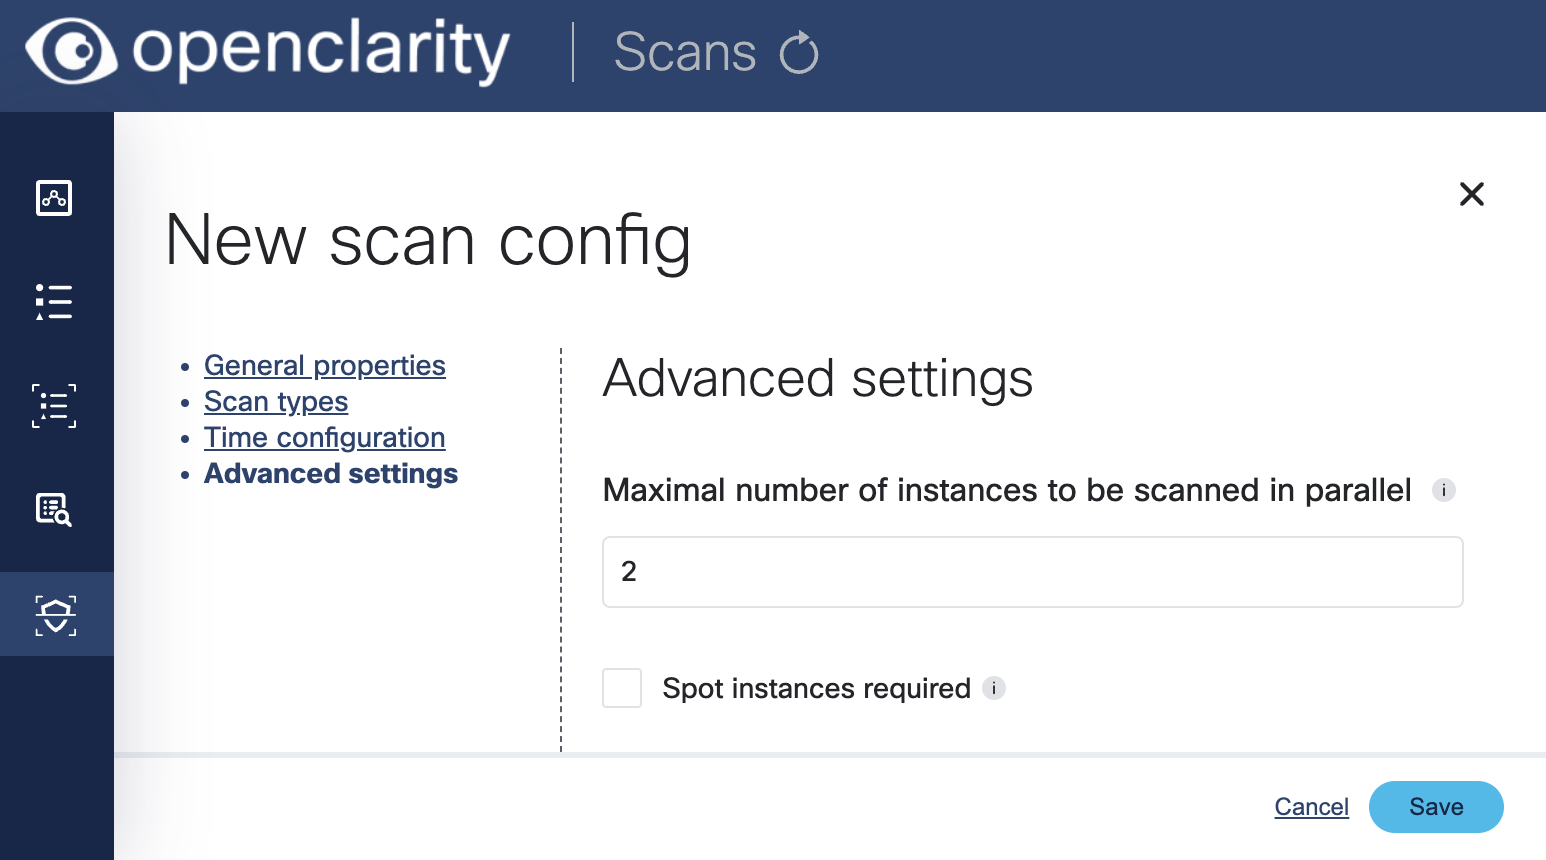
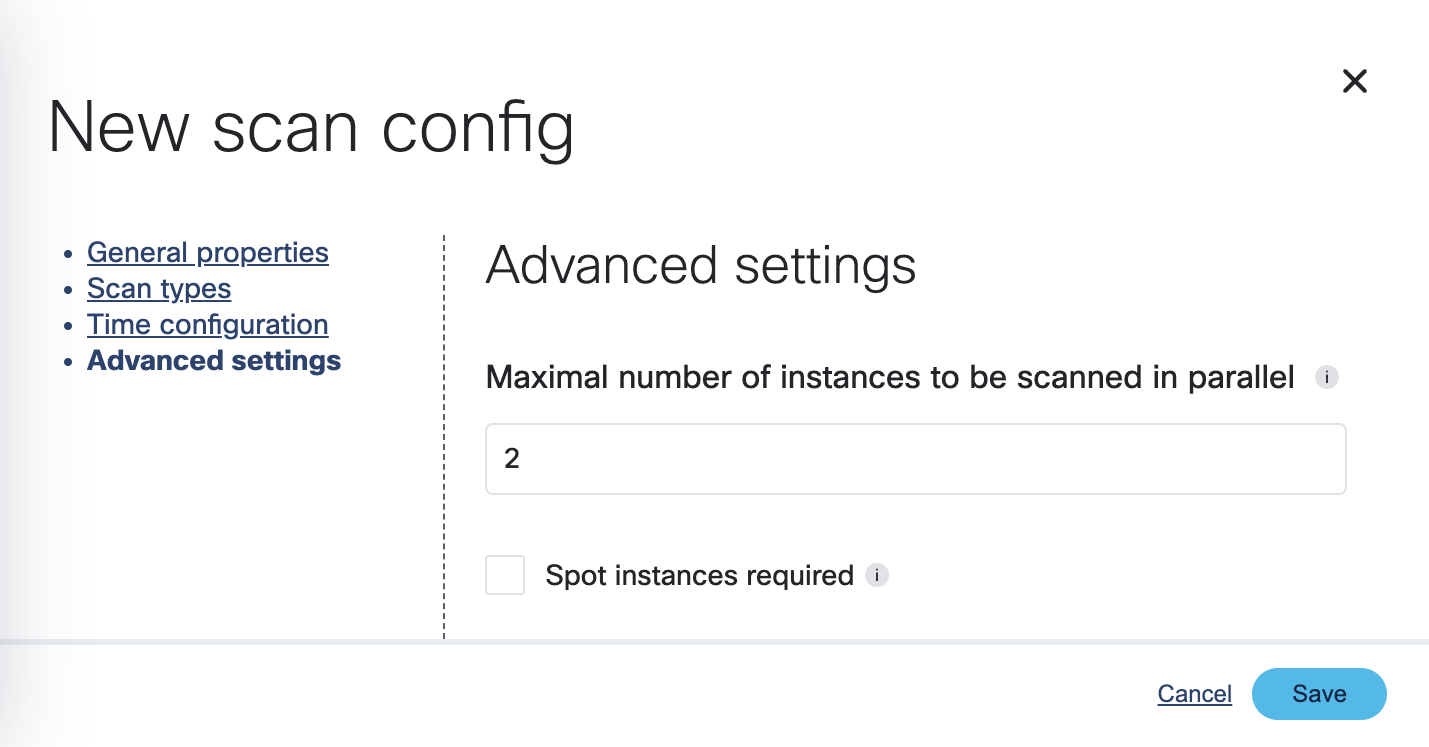
docs: improve images of First tasks guide

diff --git a/content/docs/getting-started/first-tasks/_index.md b/content/docs/getting-started/first-tasks/_index.md
@@ -11,34 +11,34 @@ weight: 200
 
 2. Click on the **Scans** icon. In the Scans window, you can create a new scan configuration.
 
-    <img src="/img/openclarity-ui-2.png" alt="OpenClarity UI Scan" title="OpenClarity UI Scan" />
+    <img src="/img/openclarity-ui-2.png" alt="OpenClarity UI Scan" title="OpenClarity UI Scan" width="500px" />
 
 3. Click **New scan configuration**.
 
-    <img src="/img/openclarity-scan-setup-1.png" alt="OpenClarity Scan Setup - Step 1" title="OpenClarity Scan Setup Step 1" />
+    <img src="/img/openclarity-scan-setup-1.png" alt="OpenClarity Scan Setup - Step 1" title="OpenClarity Scan Setup Step 1" width="500px" />
 
 4. Follow the steps of the **New scan config** wizard to name the scan, and optionally narrow the scope down with an
    OData query.
 
-    <img src="/img/openclarity-scan-setup-2.png" alt="OpenClarity Scan Setup - Step 2" title="OpenClarity Scan Setup Step 2" />
+    <img src="/img/openclarity-scan-setup-2.png" alt="OpenClarity Scan Setup - Step 2" title="OpenClarity Scan Setup Step 2" width="500px" />
 
 5. Enable the scan types you want to perform.
 
-    <img src="/img/openclarity-scan-setup-3.png" alt="OpenClarity Scan Setup - Step 3" title="OpenClarity Scan Setup Step 3" />
+    <img src="/img/openclarity-scan-setup-3.png" alt="OpenClarity Scan Setup - Step 3" title="OpenClarity Scan Setup Step 3" width="500px" />
 
 6. Select the time and/or frequency of the scans. To run the scan immediately, select **Now**.
 
-    <img src="/img/openclarity-scan-setup-4.png" alt="OpenClarity Scan Setup - Step 4" title="OpenClarity Scan Setup Step 4" />
+    <img src="/img/openclarity-scan-setup-4.png" alt="OpenClarity Scan Setup - Step 4" title="OpenClarity Scan Setup Step 4" width="500px" />
 
 7. Optionally, adjust the number of scanners to run in parallel and whether to use spot instances on cloud providers, or
    not.
 
-    <img src="/img/openclarity-scan-setup-5.png" alt="OpenClarity Scan Setup - Step 5" title="OpenClarity Scan Setup Step 5" />
+    <img src="/img/openclarity-scan-setup-5.png" alt="OpenClarity Scan Setup - Step 5" title="OpenClarity Scan Setup Step 5" width="500px" />
 
 8. Click **Save**. The new scan appears on the **Scan Configurations** tab.
 
-    <img src="/img/openclarity-scan-config-summary.png" alt="OpenClarity Scan Config Summary" title="OpenClarity Scan Config Summary" />
+    <img src="/img/openclarity-scan-config-summary.png" alt="OpenClarity Scan Config Summary" title="OpenClarity Scan Config Summary" width="1000px" />
 
 9. Once a scan is finished, you can browse around the various OpenClarity UI features and investigate the security scan reports.
 
-   <img src="/img/openclarity-dashboard-data.png" alt="OpenClarity Dashboard with Findings" title="OpenClarity Dashboard with Findings" />
+   <img src="/img/openclarity-dashboard-data.png" alt="OpenClarity Dashboard with Findings" title="OpenClarity Dashboard with Findings" width="1000px" />

diff --git a/content/headless/vmclarity/access-ui.md b/content/headless/vmclarity/access-ui.md
@@ -1,7 +1,8 @@
 ---
 ---
+
 1. Open the OpenClarity UI in your browser at [http://localhost:8080/](http://localhost:8080/). The dashboard opens.
 
-    ![OpenClarity UI Dashboard](/img/openclarity-ui-1.png)
+1. (Optional) If needed, you can access the API at [http://localhost:8080/api](http://localhost:8080/api). For details on the API, see the [API reference]({{% relref "/docs/api/_index.md" %}}).
 
-1. (Optional) If needed, you can access the API at[http://localhost:8080/api](http://localhost:8080/api). For details on the API, see the [API reference]({{% relref "/docs/api/_index.md" %}}).
+<img src="/img/openclarity-ui-1.png" alt="OpenClarity UI" title="OpenClarity UI" width="1000px" />
